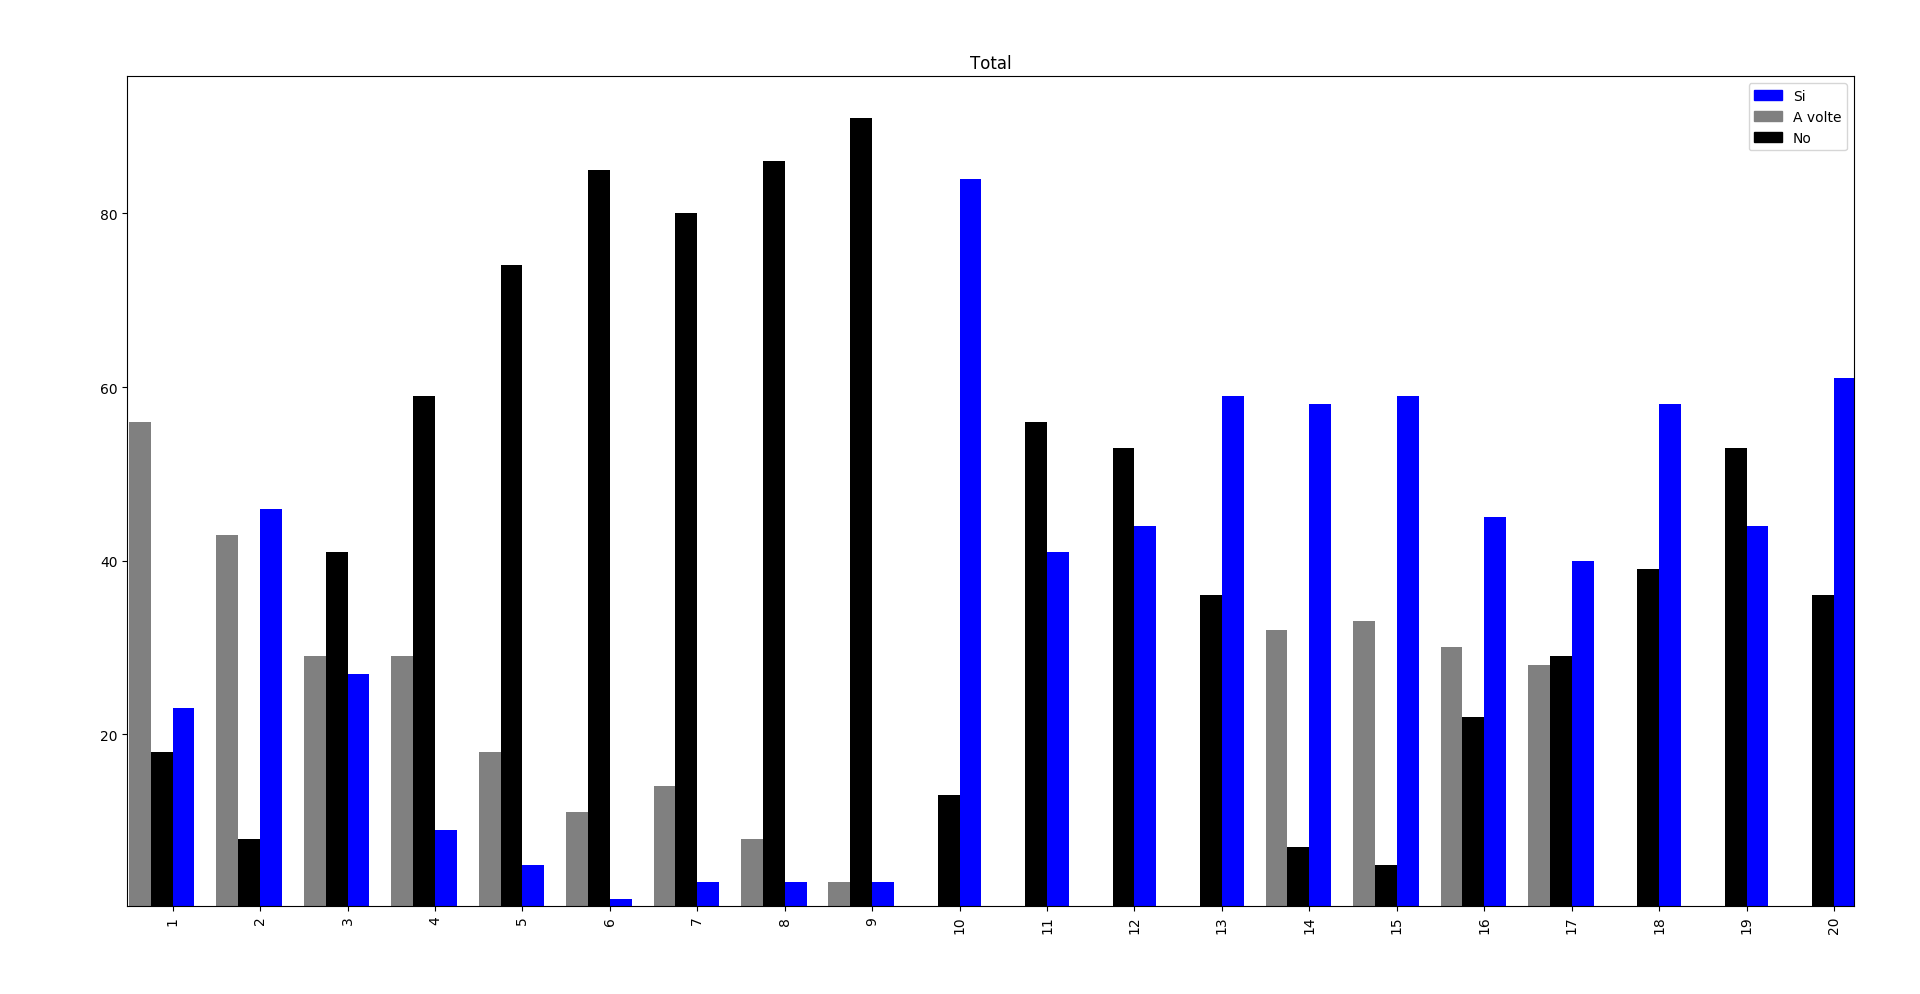
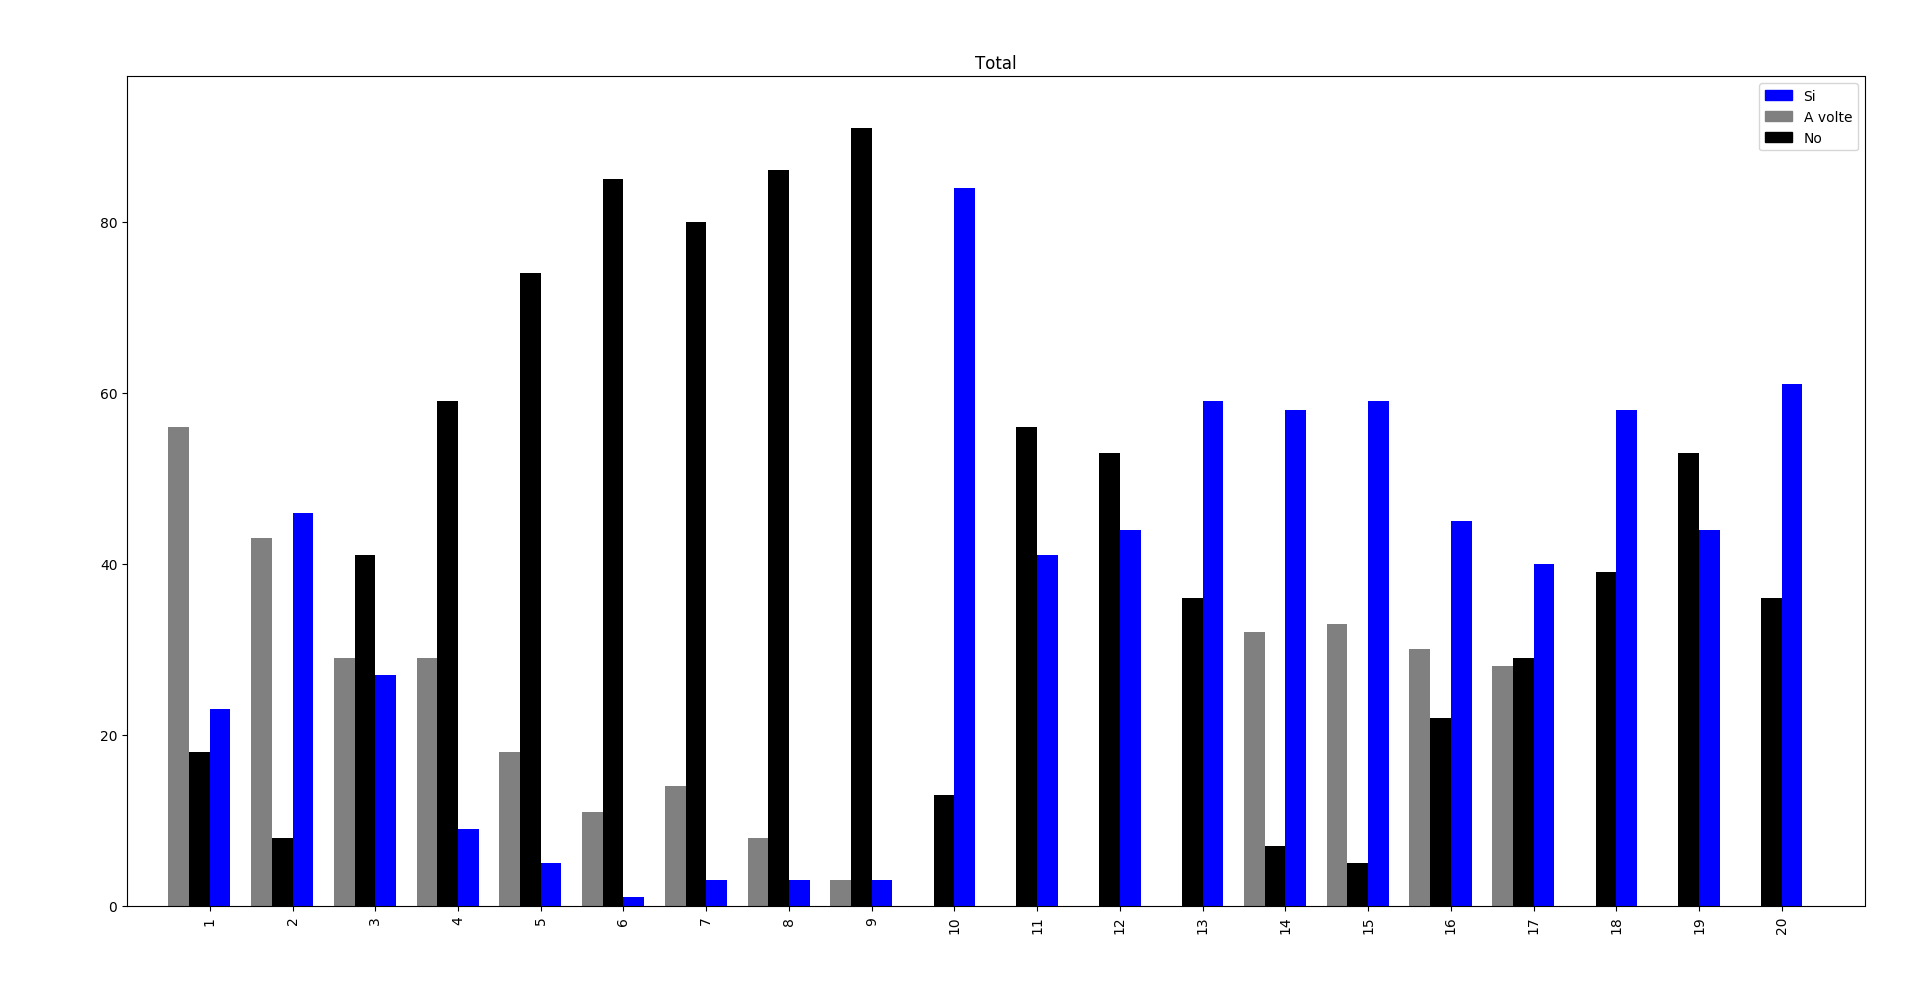
second

diff --git a/plotgen.py b/plotgen.py
@@ -20,7 +20,7 @@ plt.title('Women')
 questA.Si_F.plot.bar(position=2, color="green", width=0.25)
 questA.No_F.plot.bar(position=1, color="red", width=0.25)
 questA.A_volte_F.plot.bar(position=0, color="yellow", width=0.25)
-
+plt.axis([-1, 20, 0, 50])
 ### LEGEND ###
 green_patch = mpatches.Patch(color="green", label="Si")
 
@@ -49,7 +49,7 @@ plt.show()
 questA.Si_M.plot.bar(position=2, color="blue", width=0.25)
 questA.No_M.plot.bar(position=1, color="black", width=0.25)
 questA.A_volte_M.plot.bar(position=0, color="grey", width=0.25)
-
+plt.axis([-1, 20, 0, 50])
 
 ### LEGEND ###
 black_patch = mpatches.Patch(color="black", label="No")
@@ -73,7 +73,7 @@ plt.figure()
 questA.Si_A.plot.bar(position=0, color="blue", rot=0, width=0.25)
 questA.No_A.plot.bar(position=1, color="black", width=0.25)
 questA.A_volte_A.plot.bar(position=2, color="grey", width=0.25)
-
+plt.axis([-1, 20, 0, 97])
 ##### LEGEND ###
 black_patch = mpatches.Patch(color="black", label="No")
 ##
@@ -90,12 +90,14 @@ plt.show()
 ##### HORIZONTAL BAR #####
 ##########################
 plt.figure()
+
 plt.subplot(121).invert_xaxis()
 plt.title('Men')
-questA.Si_M.plot.barh(position=2, color="blue", width=0.25)
-questA.No_M.plot.barh(position=0, color="black", width=0.25)
-questA.A_volte_M.plot.barh(position=1, color="c", width=0.25)
 
+questA.Si_M.plot.barh(position=0, color="blue", width=0.25)
+questA.No_M.plot.barh(position=2, color="black", width=0.25)
+questA.A_volte_M.plot.barh(position=1, color="c", width=0.25)
+plt.tight_layout()
 green_patch = mpatches.Patch(color="green", label="Si")
 
 yellow_patch =mpatches.Patch(color="yellow", label="A volte")
@@ -115,12 +117,13 @@ cur_axes.axes.get_yaxis().set_visible(False)
 
 plt.subplot(122)
 plt.title('Women')
-questA.Si_F.plot.barh(position=2, color="green", width=0.25)
-questA.No_F.plot.barh(position=0, color="red", width=0.25)
+questA.Si_F.plot.barh(position=0, color="green", width=0.25)
+questA.No_F.plot.barh(position=2, color="red", width=0.25)
 questA.A_volte_F.plot.barh(position=1, color="orange", width=0.25)
-
-plt.subplots_adjust(wspace=0.10)
 plt.tight_layout()
+#plt.axis([0, 50, -1, 20])
+plt.subplots_adjust(wspace=0.10)
+
 
 plt.show()
 

diff --git a/plotclass.py b/plotclass.py
@@ -162,6 +162,7 @@ def superplot():
     (df4.SIUF * 100 / df3.ix[2, 'Tot_U_F']).plot.bar(width=0.25, position=1)
     (df4.NOUF * 100 / df3.ix[2, 'Tot_U_F']).plot.bar(width=0.25, position=2, color='r')
 
+    plt.tight_layout()
     plt.show()
 
     ### Pie Chart Positive/Negative Attitude Towards Dialect ###
